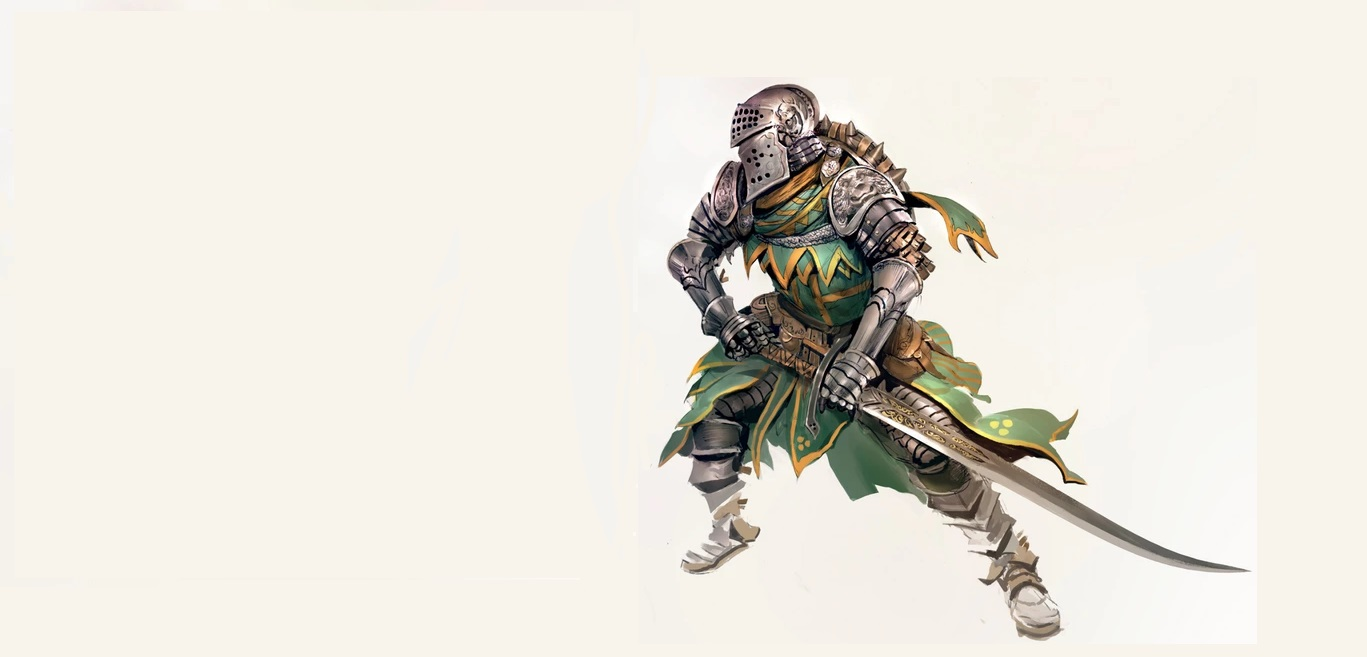
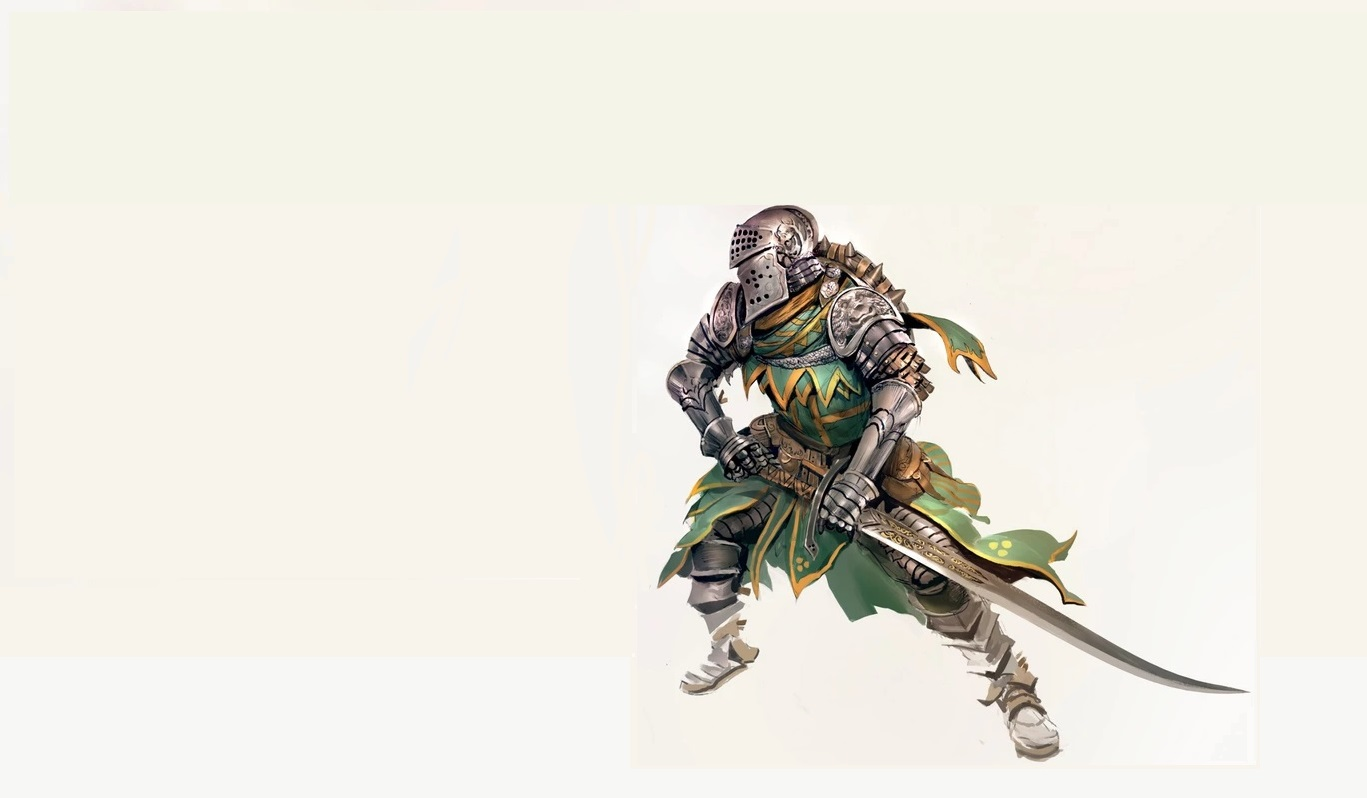
Adjusted background image and added mobile header + main navbar.

Changed region(s): [[0.4609, 0.1218, 0.8603, 0.9741], [0.8603, 0.8524, 0.9217, 0.8828]]

diff --git a/templates/includes/mobile-top-header.html b/templates/includes/mobile-top-header.html
@@ -1,0 +1,56 @@
+<li class="list-inline-item">
+    <a class="text-black nav-link d-block d-lg-none" href="#" id="mobile-search" data-toggle="dropdown" aria-haspopup="true" aria-expanded="false">
+        <div class="text-center">
+            <div><i class="fas fa-search fa-lg"></i></div>
+            <p class="my-0">Search</p>
+        </div>
+    </a>
+    <div class="dropdown-menu border-0 w-100 p-3 rounded-0 my-0" aria-labelledby="mobile-search">
+        <form class="form" method="GET" action="">
+            <div class="input-group w-100">
+                <input class="form-control border border-black rounded-0" type="text" name="q" placeholder="Search our site">
+                <div class="input-group-append">
+                    <button class="form-control form-control btn btn-black border border-black rounded-0" type="submit">
+                        <span class="icon">
+                            <i class="fas fa-search"></i>
+                        </span>
+                    </button>
+                </div>
+            </div>
+        </form>
+    </div>
+</li>
+<li class="list-inline-item dropdown">
+    <a class="text-black nav-link d-block d-lg-none" href="#" id="user-options" data-toggle="dropdown" aria-haspopup="true" aria-expanded="false">
+        <div class="text-center">
+            <div><i class="fas fa-user fa-lg"></i></div>
+            <p class="my-0">My Account</p>
+        </div>
+    </a>
+    <div class="dropdown-menu border-0" aria-labelledby="user-options">
+        {% if request.user.is_authenticated %}
+            {% if request.user.is_superuser %}
+                <a href="{% url 'account_logout' %}" class="dropdown-item">Product Management</a>
+            {% endif %}
+            <a href="#" class="dropdown-item">My Profile</a>
+            <a href="{% url 'account_logout' %}" class="dropdown-item">Logout</a>
+        {% else %}
+            <a href="{% url 'account_signup' %}" class="dropdown-item">Register</a>
+            <a href="{% url 'account_login' %}" class="dropdown-item">Login</a>
+        {% endif %}
+    </div>
+</li>
+<li class="list-inline-item">
+    <a class="{% if grand_total %}text-primary font-weight-bold{% else %}text-black{% endif %} nav-link d-block d-lg-none" href="">
+        <div class="text-center">
+            <div><i class="fas fa-shopping-bag fa-lg"></i></div>
+            <p class="my-0">
+                {% if grand_total %}
+                    ${{ grand_total|floatformat:2 }}
+                {% else %}
+                    $0.00
+                {% endif %}
+            </p>
+        </div>
+    </a>
+</li>

diff --git a/templates/includes/main-nav.html b/templates/includes/main-nav.html
@@ -1,0 +1,32 @@
+<div class="collapse navbar-collapse" id="main-nav">
+    <ul class="navbar-nav w-auto mx-auto">
+        <li class="nav-item">
+            <a class="logo-font font-weight-bold nav-link text-black mr-5" href="#" aria-haspopup="true" aria-expanded="false">
+                About
+            </a>
+        </li>
+
+        <li class="nav-item dropdown">
+            <a class="logo-font font-weight-bold nav-link text-black mr-5" href="#" id="clothing-link" data-toggle="dropdown" aria-haspopup="true" aria-expanded="false">
+                Showcase
+            </a>
+            <div class="dropdown-menu border-0" aria-labelledby="clothing-link">
+                <a href="" class="dropdown-item">Race</a>
+                <a href="" class="dropdown-item">Class</a>
+                <a href="" class="dropdown-item">All Characters</a>
+            </div>
+        </li>
+
+        <li class="nav-item">
+            <a class="logo-font font-weight-bold nav-link text-black mr-5" href="#" aria-haspopup="true" aria-expanded="false">
+                Prices & Rules
+            </a>
+        </li>
+
+        <li class="nav-item">
+            <a class="logo-font font-weight-bold nav-link text-black" href="#" aria-haspopup="true" aria-expanded="false">
+                Commissions
+            </a>
+        </li>
+    </ul>
+</div>

diff --git a/templates/base.html b/templates/base.html
@@ -110,6 +110,15 @@
                 </ul>
             </div>
         </div>
+        <div class="row bg-white">
+            <nav class="navbar navbar-expand-lg navbar-light w-100">
+                <button class="navbar-toggler" type="button" data-toggle="collapse" data-target="#main-nav" aria-controls="main-nav" aria-expanded="false" aria-label="Toggle navigation">
+                    <span class="navbar-toggler-icon"></span>
+                </button>
+                {% include 'includes/mobile-top-header.html' %}
+                {% include 'includes/main-nav.html' %}
+            </nav>
+        </div>
     </header>
 	
 	{% if messages %}

diff --git a/home/templates/home/index.html b/home/templates/home/index.html
@@ -15,9 +15,9 @@
     <div class="container h-100">
         <div class="row h-100">
             <div class="col-7 col-md-6 my-auto">
-                <h1 class="display-4 logo-font text-black">
-                    Available for character commissions.
-                </h1>
+                <h3 class="display-4 logo-font text-black">
+                    D&D Artist available for character commissions.
+                </h3>
 
 				<!-- View Showcase Button -->
                 <div class="my-5">
